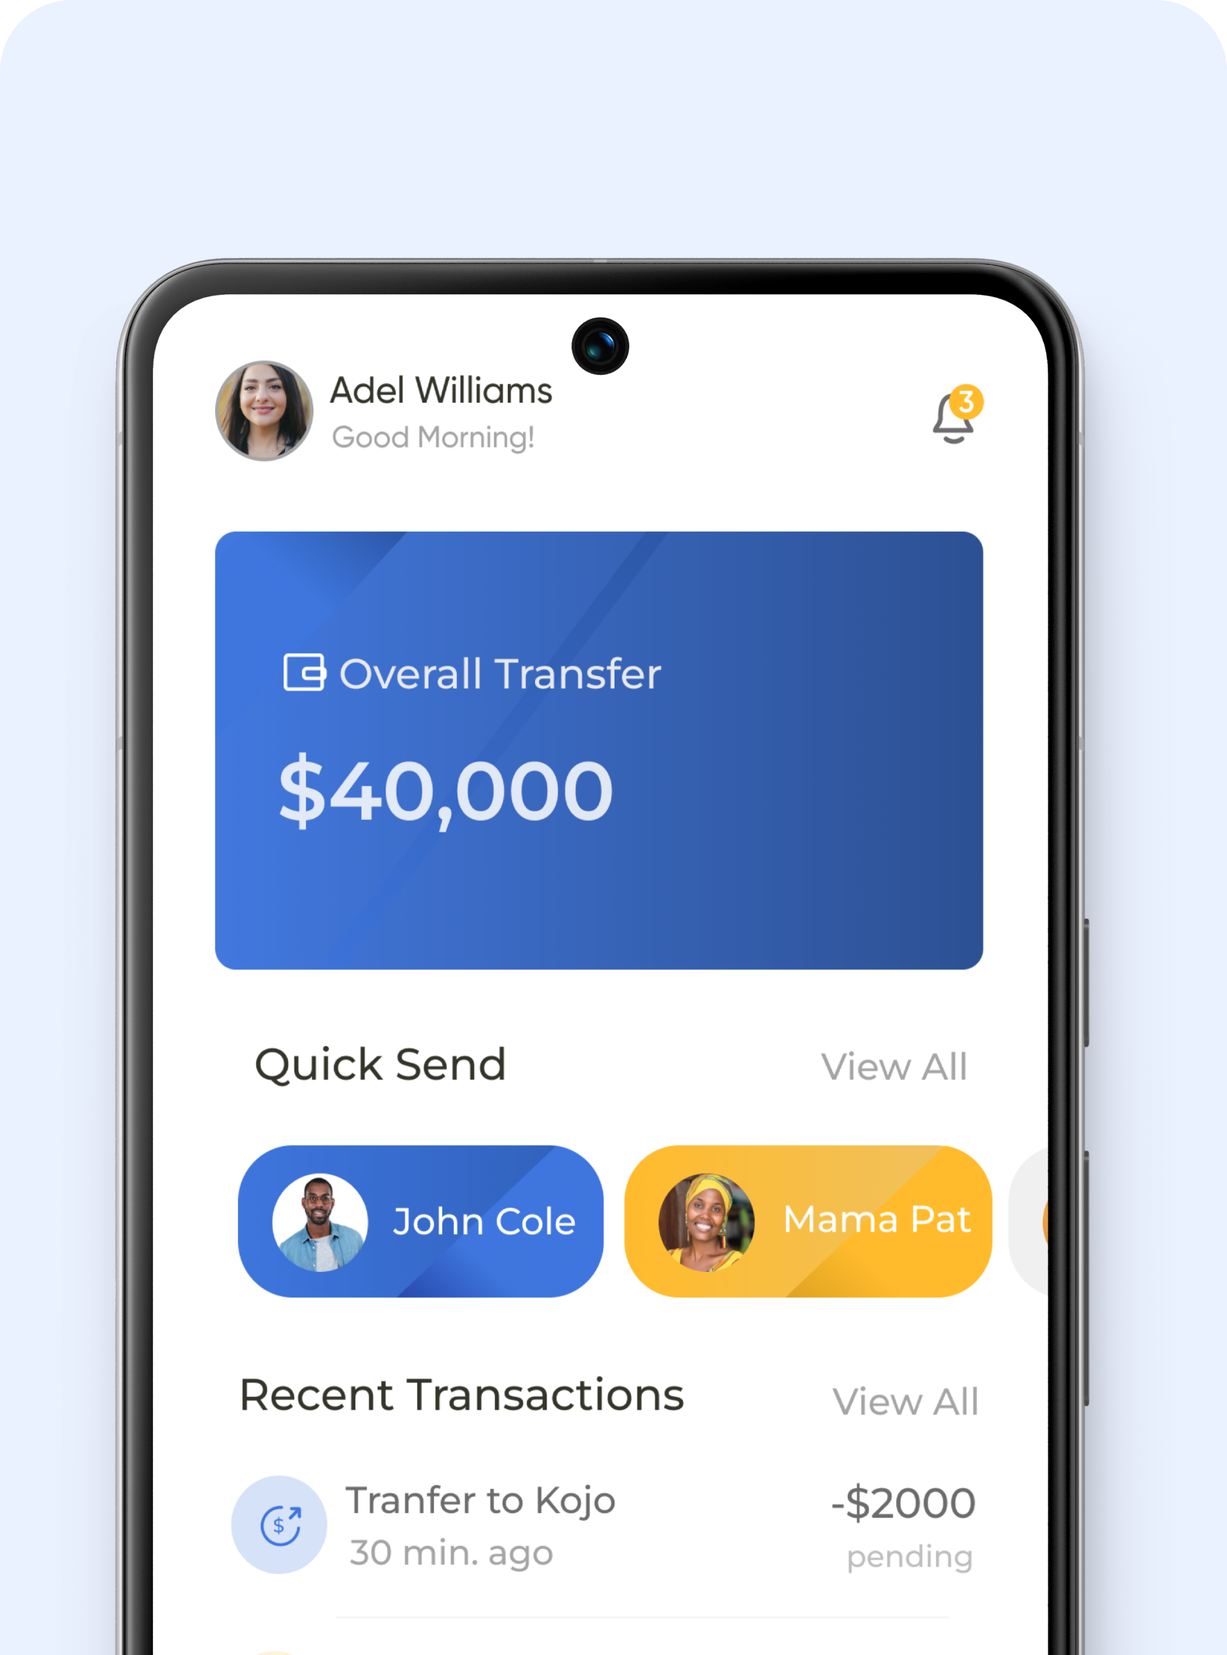
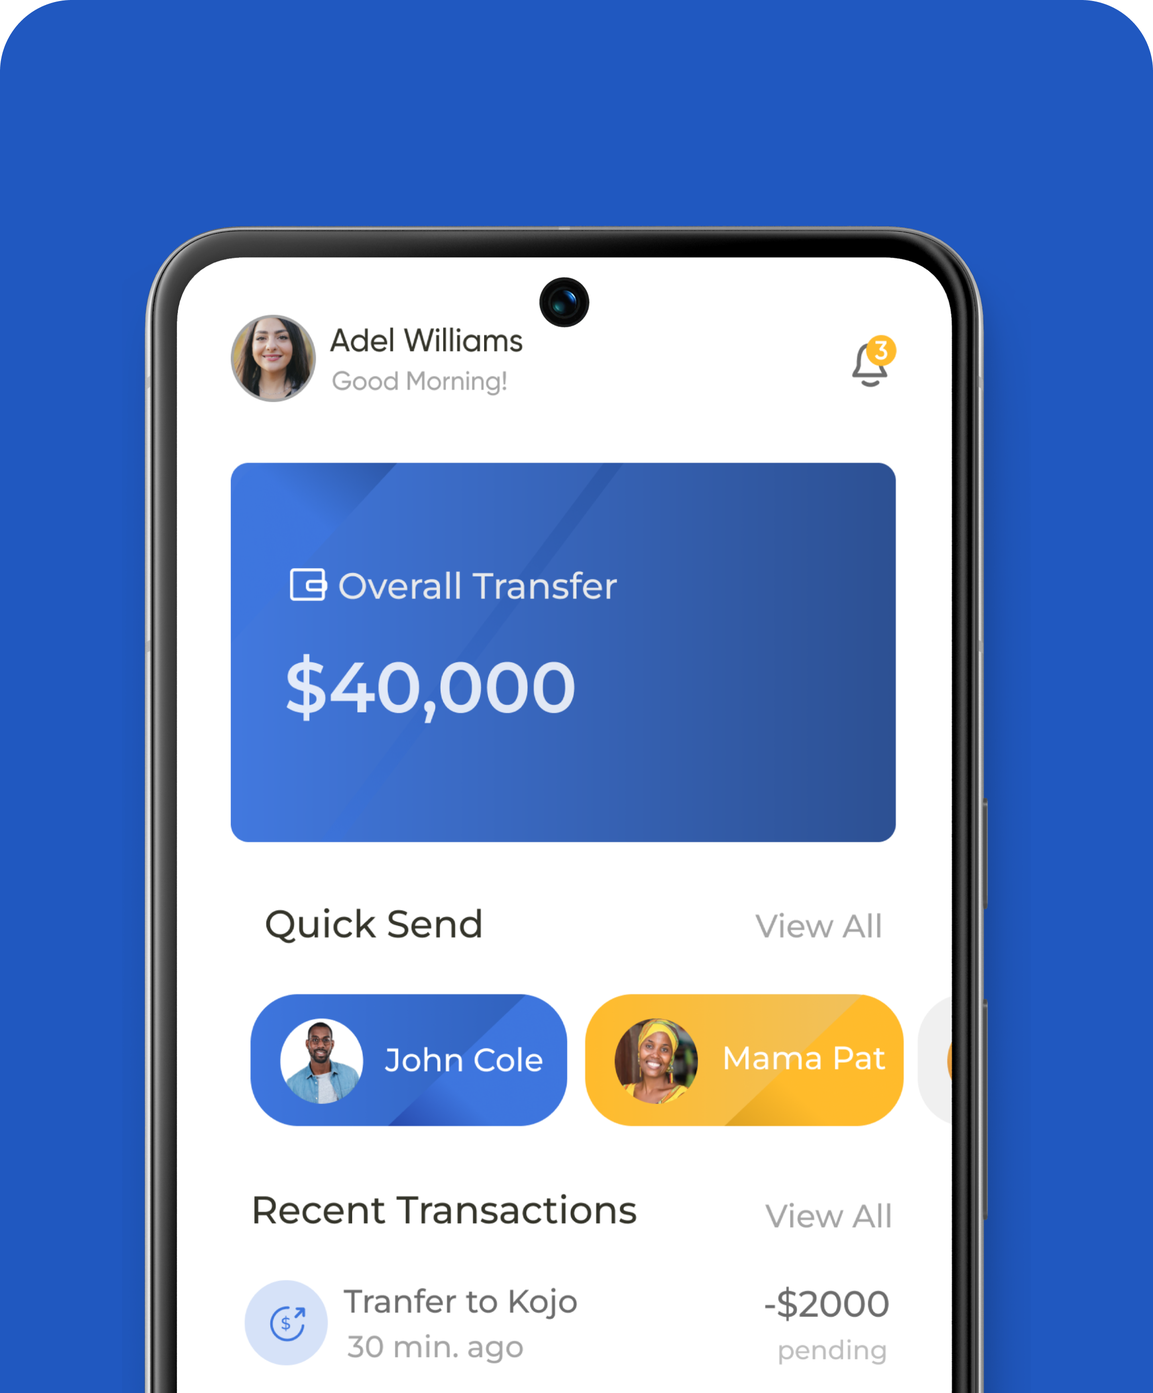
update

diff --git a/src/app/website/partials/solution.tsx b/src/app/website/partials/solution.tsx
@@ -4,18 +4,18 @@ const Solution = () => {
 
 
     return (
-        <section className="bg-[#F6F9FF] mt-[0px] px-4 py-[10px] w-full rounded-[0px]">
-            <div className="flex flex-col w-full md:items-center  md:flex-col xl:flex-row lg:flex-row px-4 mx-[0px] xl:mx-[0px] md:mx-[0px] lg:mx-[0px] xl:space-x-[130px] lg:space-x-[130px]  md:space-x-[0px] xl:space-x-[30px] py-10 ">
+        <section className="bg-[#F6F9FF] mt-[0px] xl:mt-[230px] px-4 py-[10px] w-full rounded-[0px]">
+            <div className="flex flex-col w-full md:items-center  md:flex-col xl:flex-row lg:flex-row px-4 mx-[0px] xl:mx-[0px] md:mx-[0px] lg:mx-[0px] xl:space-x-[50px] lg:space-x-[130px]  md:space-x-[0px] xl:space-x-[30px] py-10 ">
 
-                <div className="pt-6  lg:mt-[95px] xl:mb-[65px] md:pt-0 flex flex-col w-full lg:w-[45%] md:w-[55%]  xl:w-[45%]  justify-center  ml-0 lg:ml-20 md:ml-0 xl:ml-20">
+                <div className="pt-6  lg:mt-[95px] xl:mb-[65px] md:pt-0 flex flex-col w-full lg:w-[45%] md:w-[55%]  xl:w-[35%]  justify-center  ml-0 lg:ml-20 md:ml-0 xl:ml-20">
                     <img src="/assets/images/mockup-1.png" alt="Phone" />
                 </div>
 
                 <div className="w-full xl:w-[55%] md:w-full  lg:w-[55%] flex flex-col justify-center items-start  mb-6 md:mb-0">
-                    <h1 className="text-[#34342A] xl:pr-[160px] pt-[50px] leading-tight lg:leading-[53px] xl:leading-[50px] xl:pb-[5px] md:pb-[10px] lg:pb-0 pb-[10px] pt-0 lg:pt-0 xl:pt-2 md:pt-[100px] lg:text-[20px] xl:text-[40px] font-bold text-2xl">
+                    <h1 className="text-[#000000] xl:pr-[160px] pt-[50px] leading-tight lg:leading-[53px] xl:leading-[50px] xl:pb-[15px] md:pb-[10px] lg:pb-0 pb-[10px] pt-0 lg:pt-0 xl:pt-2 md:pt-[100px] lg:text-[20px] xl:text-[40px] font-semibold text-2xl">
                         We support Africa's family, friends, businesses.
                     </h1>
-                    <p className="pt-2 xl:pr-[80px]  text-[#636464] text-[18px] leading-snug font-semibold md:text-[17px] xl:text-[17px] lg:text-[17px]">
+                    <p className="pt-2 xl:pr-[80px]  text-[#3F3F3F] text-[18px] leading-snug font-normal md:text-[17px] xl:text-[17px] lg:text-[17px]">
                         UbuPay offers a holistic solution for users to support family, friends, and businesses in Africa, ensuring financial inclusion and empowerment.
                     </p>
                     <div className="flex flex-col mt-[20px]">
@@ -25,7 +25,7 @@ const Solution = () => {
                                 alt=""
                                 className="w-[18px] h-auto"
                             />
-                            <h4 className="ml-2 text-[#636464] text-[18px] leading-snug font-semibold md:text-[17px] xl:text-[17px] lg:text-[17px]">
+                            <h4 className="ml-2 text-[#3F3F3F] text-[18px] leading-snug font-normal md:text-[17px] xl:text-[17px] lg:text-[17px]">
                                 Competitive Exchange Rates
                             </h4>
                         </div>
@@ -35,7 +35,7 @@ const Solution = () => {
                                 alt=""
                                 className="w-[18px] h-auto"
                             />
-                            <h4 className="ml-2 text-[#636464] text-[18px] leading-snug font-semibold md:text-[17px] xl:text-[17px] lg:text-[17px]">
+                            <h4 className="ml-2 text-[#3F3F3F] text-[18px] leading-snug font-normal md:text-[17px] xl:text-[17px] lg:text-[17px]">
                                 Multi-Currency Support
                             </h4>
                         </div>
@@ -45,7 +45,7 @@ const Solution = () => {
                                 alt=""
                                 className="w-[18px] h-auto"
                             />
-                            <h4 className="ml-2 text-[#636464] text-[18px] leading-snug font-semibold md:text-[17px] xl:text-[17px] lg:text-[17px]">
+                            <h4 className="ml-2 text-[#3F3F3F] text-[18px] leading-snug font-normal md:text-[17px] xl:text-[17px] lg:text-[17px]">
                                 Rewards and Loyalty Programs
                             </h4>
                         </div>
@@ -53,24 +53,24 @@ const Solution = () => {
 
 
                     <div className="pt-[0px] lg:pt-[0px]  z-10 relative ">
-                    <div className="flex flex-col xl:flex-row lg:flex-row md:flex-row mt-12 mb:mt-12 lg:mt-8 xl:mt-12 mx-0 lg:mx-4 xl:mx-2 md:mx-0 pb-10  xl:items-left xl:items-center lg:items-center md:items-center">
-                                <div
-                                    className="flex items-center w-auto mb-4 xl:mb-0 lg:mb-0 md:mb-0  btn cursor-pointer btn-playstore  transition ease-out duration-500 ">
-                                    <img src="../../assets/images/playstore.png" className="w-7 lg:w-6 xl:w-10 md:w-10" />
-                                    <div className="ml-2 md:ml-2 xl:ml-2 lg:ml-2">
-                                        <h6 className="text-white font-semibold text-[14px] lg:text-xs xl:text-xs md:text-xs">GET IT ON</h6>
-                                        <p className="text-white font-semibold text-[16px] lg:text-lg xl:text-lg md:text-lg">Google Play</p>
-                                    </div>
-                                </div>
-                                <div
-                                    className="flex items-center cursor-pointer w-auto btn ml-2 btn-appstore transition ease-out duration-500 ">
-                                    <img src="../../assets/images/appstore.png" className="w-7 lg:w-6 xl:w-8 md:w-8" />
-                                    <div className="ml-2 md:ml-2 xl:2 lg:2">
-                                        <h6 className="text-white font-semibold text-[14px] lg:text-xs xl:text-xs md:text-xs">Download on the </h6>
-                                        <p className="text-white font-semibold text-[16px] lg:text-lg xl:text-lg md:text-lg">App Store</p>
-                                    </div>
+                        <div className="flex flex-col xl:flex-row lg:flex-row md:flex-row mt-12 mb:mt-12 lg:mt-8 xl:mt-12 mx-0 lg:mx-4 xl:mx-2 md:mx-0 pb-10  xl:items-left xl:items-center lg:items-center md:items-center">
+                            <div
+                                className="flex items-center w-[190px] md:w-auto lg:w-auto xl:w-auto mb-4 xl:mb-0 lg:mb-0 md:mb-0  btn cursor-pointer btn-playstore-new-1  transition ease-out duration-500 ">
+                                <img src="../../assets/images/playstore.png" className="w-7 lg:w-6 xl:w-8 md:w-8" />
+                                <div className="ml-2 md:ml-2 xl:mx-2 lg:ml-2">
+                                    <h6 className="text-white font-medium text-[14px] lg:text-xs xl:text-[12px] md:text-xs">GET IT ON</h6>
+                                    <p className="text-white font-normal text-[16px] lg:text-lg xl:text-[14px] md:text-lg">Google Play</p>
                                 </div>
                             </div>
+                            <div
+                                className="flex items-center  w-[190px] md:w-auto lg:w-auto xl:w-auto mb-4 xl:mb-0 lg:mb-0 md:mb-0  btn cursor-pointer btn-playstore-new-1  transition ease-out duration-500 ">
+                                <img src="../../assets/images/appstore.png" className="w-7 lg:w-6 xl:w-7 md:w-8" />
+                                <div className="ml-2 md:ml-2 xl:mx-2 lg:ml-2">
+                                    <h6 className="text-[#ffffff] font-medium text-[14px] lg:text-xs xl:text-[12px] md:text-xs">GET IT ON</h6>
+                                    <p className="text-[#ffffff] font-normal text-[16px] lg:text-lg xl:text-[14px] md:text-lg">Google Play</p>
+                                </div>
+                            </div>
+                        </div>
                     </div>
                 </div>
             </div>

diff --git a/src/app/website/partials/why-ubupay.tsx b/src/app/website/partials/why-ubupay.tsx
@@ -2,87 +2,63 @@ import React from "react";
 
 const WhyUbupay = () => {
     return (
-        <section className="bg-primary w-full  mt-[0px] xl:mt-[140px] lg:mt-[140px] md:mt-[140px] py-[0px] xl:py-[100px] lg:py-[100px] md:py-[100px] rounded-[0px]">
-            <div className="flex flex-col  md:flex-col xl:flex-row lg:flex-row px-6 mx-[0px] xl:mx-[70px] md:mx-[30px] lg:mx-[30px] py-10 ">
-                <div className="w-full xl:w-[45%] md:w-[90%]  lg:w-[40%] flex flex-col justify-center items-start  mb-6 md:mb-0">
-                    <h1 className="text-[#ffffff] xl:pr-[40px] lg:pr-[100px] md:pt-[50px] lg:pt-[50px] xl:pt-[50px] pt-[30px] leading-tight lg:leading-[53px] xl:leading-[50px] xl:pb-[5px] md:pb-[10px] lg:pb-0 pb-[10px] pt-0 lg:pt-0 xl:pt-2 md:pt-[100px] lg:text-[40px] xl:text-[40px]  md:text-[40px] font-bold text-2xl">
-                        Seamless secure
-                        & efficient money transfers
-                    </h1>
-                    <p className="pt-2 xl:pr-[80px]  lg:pr-[100px]  text-[#ECECEC] text-[18px] leading-snug font-semibold md:text-[17px] xl:text-[17px] lg:text-[17px]">
-                        UbuPay enables affordable, seamless money transfers to Africa for loved ones and businesses.
-                    </p>
-                    <button className="px-6 xl:mt-[50px] lg:mt-[50px] md:mt-[50px] md:mb-[50px] mt-[30px] py-2 btn-readmore  transition">
-                        Learn More
-                    </button>
-
+        <section className="absolute top-[520px] w-full  px-[20px]  mt-[0px] xl:mt-[140px] lg:mt-[140px] md:mt-[140px] py-[0px] xl:py-[100px] lg:py-[100px] md:py-[100px] rounded-[0px]">
+            <div className="flex flex-col bg-[#ffffff] drop-shadow-xl rounded-[10px]  md:flex-col xl:flex-col lg:flex-row px-6 mx-[0px] xl:mx-[70px] md:mx-[30px] lg:mx-[30px] py-10 ">
+                <div className="flex flex-row space-x-28">
+                    <div className="flex flex-col items-center mx-[50px]">
+                        <h3 className="font-semibold xl:text-[40px] text-[#000000] mb-[0px]">
+                            200K
+                        </h3>
+                        <p className=" text-[#3F3F3F] font-medium text-[14px] mb-[40px]">
+                            TOTAL TRANSACTIONS
+                        </p>
+                    </div>
+                    <div className="flex flex-col items-center">
+                        <h3 className="font-semibold xl:text-[40px] text-[#000000] mb-[0px]">
+                            6
+                        </h3>
+                        <p className=" text-[#3F3F3F] font-medium text-[14px] mb-[40px]">
+                        NUMBER OF COUNTRIES
+                        </p>
+                    </div>
                 </div>
 
-                <div className="w-full md:w-full grid grid-cols-1 sm:grid-cols-2 gap-6">
-                    <div className="flex flex-col items-start p-6 border rounded-lg bg-white">
-                        <h3 className="text-[26px]  font-semibold text-[#34342A] mb-[20px]">
+                <hr className=" mr-[500px]"/>
+
+                <div className="w-full md:w-full xl:mt-8 grid grid-cols-1 sm:grid-cols-3 gap-0">
+                    <div className="flex flex-col items-start p-6">
+                        <h3 className="font-semibold xl:text-[22px] text-[#000000] mb-[10px]">
                             Instant Transfers
                         </h3>
-                        <p className=" text-[#6C6C6C] font-semibold text-[18px] mb-[60px]">
+                        <p className=" text-[#3F3F3F] font-normal text-[16px] mb-[60px]">
                             Send money instantly to bank accounts, mobile wallets.
                         </p>
-                        <div className="w-16 h-16 bg-primary rounded-full flex justify-center items-center">
-                            <img
-                                src="assets/icons/why-icon-1.png"
-                                alt=""
-                                className="w-8 h-8"
-                            />
-                        </div>
-                    </div>
 
-                    <div className="flex flex-col items-start p-6 border rounded-lg bg-white">
-                        <h3 className="text-[26px] font-semibold text-[#34342A] mb-[20px]">
-                        Realtime Tracking
-                        </h3>
-                        <p className=" text-[#6C6C6C] font-semibold text-[18px] mb-[60px]">
-                        Track the status of transfers with live updates until delivery is confirmed                        </p>
-                        <div className="w-16 h-16 bg-primary rounded-full flex justify-center items-center">
-                            <img
-                                src="assets/icons/why-icon-2.png"
-                                alt=""
-                                className="w-8 h-8"
-                            />
-                        </div>
                     </div>
-
-                    <div className="flex flex-col items-start p-6 border rounded-lg bg-white">
-                        <h3 className="text-[26px] font-semibold text-[#34342A] mb-[20px]">
-                        Flexible Payment Options
+                    <div className="flex flex-col items-start p-6">
+                        <h3 className="font-semibold xl:text-[22px] text-[#000000] mb-[10px]">
+                            Realtime Tracking
                         </h3>
-                        <p className=" text-[#6C6C6C] font-semibold text-[18px] mb-[60px]">
-                        Use debit or credit cards  or Canadian bank account to fund transfers
+                        <p className=" text-[#3F3F3F] font-normal text-[16px] mb-[60px]">
+                            Track the status of transfers with live updates until delivery is confirmed
                         </p>
-                        <div className="w-16 h-16 bg-primary rounded-full flex justify-center items-center">
-                            <img
-                                src="assets/icons/why-icon-3.png"
-                                alt=""
-                                className="w-8 h-8"
-                            />
-                        </div>
+
+
+
                     </div>
 
-                    <div className="flex flex-col items-start p-6 border rounded-lg bg-white">
-                        <h3 className="text-[26px] font-semibold text-[#34342A] mb-[20px]">
-                        Low Transaction Fees
+                    <div className="flex flex-col items-start p-6">
+                        <h3 className="font-semibold xl:text-[22px] text-[#000000] mb-[10px]">
+                            Flexible Payment Options
                         </h3>
-                        <p className=" text-[#6C6C6C] font-semibold text-[18px] mb-[60px]">
-                        Affordable fees compared to traditional banks or money transfer services
+                        <p className=" text-[#3F3F3F] font-normal text-[16px] mb-[60px]">
+                            Use debit or credit cards  or Canadian bank account to fund transfers
                         </p>
-                        <div className="w-16 h-16 bg-primary rounded-full flex justify-center items-center">
-                            <img
-                                src="assets/icons/why-icon-4.png"
-                                alt=""
-                                className="w-auto h-6"
-                            />
-                        </div>
+
+
+
                     </div>
 
-                    
                 </div>
             </div>
         </section>

diff --git a/src/app/website/partials/banner.tsx b/src/app/website/partials/banner.tsx
@@ -1,13 +1,11 @@
-import ReceiverAmountRate from "@/app/dashboard/screens/create-transaction/component/receiver-amount-rate";
 import ReceiverAmountRateBanner from "@/app/dashboard/screens/create-transaction/component/receiver-amount-rate-banner";
-import SenderAmountRate from "@/app/dashboard/screens/create-transaction/component/sender-amount-rate";
 import SenderAmountRateBanner from "@/app/dashboard/screens/create-transaction/component/sender-amount-rate-banner";
 import React from "react";
 
 const Banner = () => {
     return (
 
-        <div className="flex flex-col items-center lg:mt-0 mt-[550px] px-[20px] xl:px-[20px] lg:px-[0px] xl:px-[40px]  md:mt-[400px] lg:mt-[20px] xl:mt-[20px] md:flex-col lg:flex-col xl:flex-col justify-center md:justify-center lg:justify-center xl:justify-center w-full xl:w-full lg:w-full h-[650px] xl:h-[600px] lg:h-[500px]">
+        <div className="flex flex-col items-center lg:mt-0 mt-[550px] px-[20px] xl:px-[20px] lg:px-[0px] xl:px-[40px]  md:mt-[400px] lg:mt-[20px] xl:mt-[20px] md:flex-col lg:flex-col xl:flex-col justify-center md:justify-center lg:justify-center xl:justify-center w-full xl:w-full lg:w-full h-[650px] xl:h-[550px] lg:h-[500px]">
             <div
                 id="solution"
                 className="h-full flex items-center lg:px-[0px] w-full pt-12 lg:pt-[100px]  lg:mb-[120px] xl:pt-[150px] md:pt-14"
@@ -39,22 +37,18 @@ const Banner = () => {
                                         <p className="text-white font-normal text-[16px] lg:text-lg xl:text-[14px] md:text-lg">Google Play</p>
                                     </div>
                                 </div>
-                                {/* <div
-                                    className="flex items-center w-[190px] md:w-auto lg:w-auto xl:w-auto mb-4 xl:mb-0 lg:mb-0 md:mb-0  btn cursor-pointer btn-appstore  transition ease-out duration-500 ">
-                                    <img src="../../assets/images/appstore.png" className="w-7 lg:w-6 xl:w-10 md:w-10" />
-                                    <div className="ml-2 md:ml-2 xl:ml-2 lg:ml-2">
-                                        <h6 className="text-white font-semibold text-[14px] lg:text-xs xl:text-xs md:text-xs">Download on the</h6>
-                                        <p className="text-white font-semibold text-[16px] lg:text-lg xl:text-lg md:text-lg">App Store</p>
-                                    </div>
-                                </div> */}
+
 
                             </div>
                         </div>
                     </div>
                     <div className="pt-6  mt-[12px]  lg:mt-[95px]   xl:mb-[0px] md:pt-0 flex  flex-col w-full lg:w-full md:w-[80%] xl:w-full justify-center ml-0 lg:ml-20 md:ml-0 xl:ml-20">
-                        <form>
+                        <form
+                            className="absolute  top-[300px] w-[40%] xl:w-[40%] lg:w-[40%] md:w-[40%]  h-[500px] left-[700px] w-full z-50 flex justify-center items-center"
+                            
+                        >
                             <div className="mx-[0px] xl:mx-[30px] lg:mx-[0px] md:mx-[0px]">
-                                <div className="p-6 w-full justify-center rounded-[16px] px-[10px] lg:px-[30px] mt-6 py-[40px] border-[0px] border-primary bg-[#0C162A]">
+                                <div className="p-6 w-full justify-center drop-shadow-xl rounded-[16px] px-[10px] lg:px-[30px] mt-6 py-[40px] border-[0px] border-primary bg-[#0C162A]">
                                     <div className="flex justify-center items-center">
                                         <span className="text-[18px] font-medium text-center w-full text-[#ffffff]">
                                             Send money today with UbuPay!
@@ -84,6 +78,7 @@ const Banner = () => {
                                 </div>
                             </div>
                         </form>
+
 
 
                     </div>

diff --git a/src/app/globals.css b/src/app/globals.css
@@ -25,6 +25,13 @@ body {
 .btn-playstore-new {
   @apply mr-1 xl:mr-1 lg:mr-1 md:mr-1 xl:py-3 lg:py-4 md:py-4 py-4 px-[20px] xl:px-[30px] lg:px-4 md:px-6  border-primary border-[1px] bg-transparent text-[#ffffff] hover:text-[#ffffff] font-medium rounded-[100px] hover:border-secondary hover:bg-secondary focus:ring-primary;
 }
+
+.btn-playstore-new-1 {
+  @apply mr-1 xl:mr-1 lg:mr-1 md:mr-1 xl:py-3 lg:py-4 md:py-4 py-4 px-[20px] xl:px-[30px] lg:px-4 md:px-6  border-[#0C162A] border-[1px] bg-[#0C162A] text-[#ffffff] hover:text-[#ffffff] font-medium rounded-[100px] hover:border-secondary hover:bg-secondary focus:ring-primary;
+}
+.btn-playstore-new-2 {
+  @apply mr-1 xl:mr-1 lg:mr-1 md:mr-1 xl:py-3 lg:py-4 md:py-4 py-4 px-[20px] xl:px-[30px] lg:px-4 md:px-6  border-[#0C162A] border-[1px] bg-transparent text-[#ffffff] hover:text-[#ffffff] font-medium rounded-[100px] hover:border-secondary hover:bg-secondary focus:ring-primary;
+}
 .btn-playstore {
   @apply mr-1 xl:mr-1 lg:mr-1 md:mr-1 xl:py-5 lg:py-4 md:py-4 py-4 px-[20px] xl:px-[40px] lg:px-6 md:px-6 bg-[#2F5FB9] text-[#ffffff] hover:text-[#ffffff] font-semibold rounded-[100px] hover:border-secondary hover:bg-secondary focus:ring-primary;
 }

diff --git a/src/app/dashboard/screens/create-transaction/component/receiver-amount-rate-banner.tsx b/src/app/dashboard/screens/create-transaction/component/receiver-amount-rate-banner.tsx
@@ -59,7 +59,7 @@ const ReceiverAmountRateBanner = () => {
                                     src="/assets/icons/arrow-down-white-new.svg"
                                     alt=""
                                    
-                                    className="w-auto h-2 ml-2"
+                                    className="w-auto h-2 ml-2 xl:mr-4 lg:mr-4 md:mr-4"
                                 />
                             </div>
 

diff --git a/src/app/dashboard/screens/create-transaction/component/sender-amount-rate-banner.tsx b/src/app/dashboard/screens/create-transaction/component/sender-amount-rate-banner.tsx
@@ -56,7 +56,7 @@ const SenderAmountRateBanner = () => {
                                 <img
                                     src="/assets/icons/arrow-down-white-new.svg"
                                     alt=""
-                                    className="w-auto h-2 ml-2"
+                                    className="w-auto h-2 ml-2 xl:mr-4 lg:mr-4 md:mr-4"
                                 />
                             </div>
 

diff --git a/src/app/website/home/page.tsx b/src/app/website/home/page.tsx
@@ -12,7 +12,7 @@ import Header from "../layout/header";
 const Home = () => {
   return (
     <div>
-      <div className="bg-gradient-to-r from-[#000000] to-[#192e56] h-[900px]">
+      <div className="bg-gradient-to-r from-[#000000] to-[#192e56] h-[950px]">
         <Header />
         <Banner />
       </div>

diff --git a/src/app/layout.tsx b/src/app/layout.tsx
@@ -9,7 +9,7 @@ export default function RootLayout({
 }>) {
   return (
     <html lang="en">
-      <body className="bg-[#EAF1FF]">
+      <body className="bg-[#ffffff]">
         {children}
       </body>
     </html>
